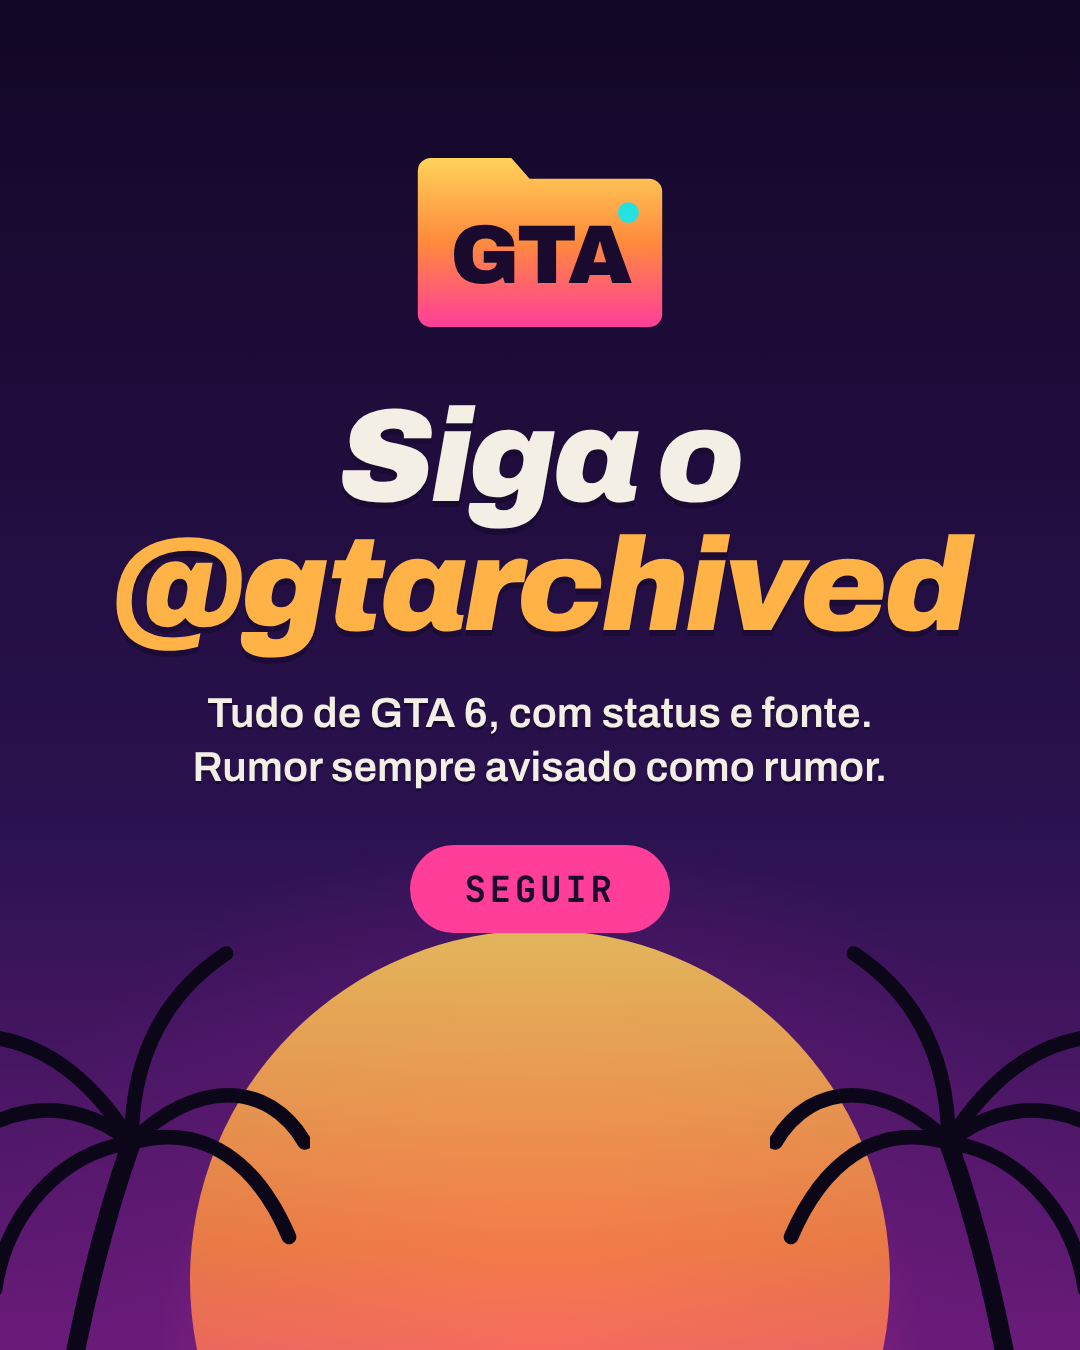
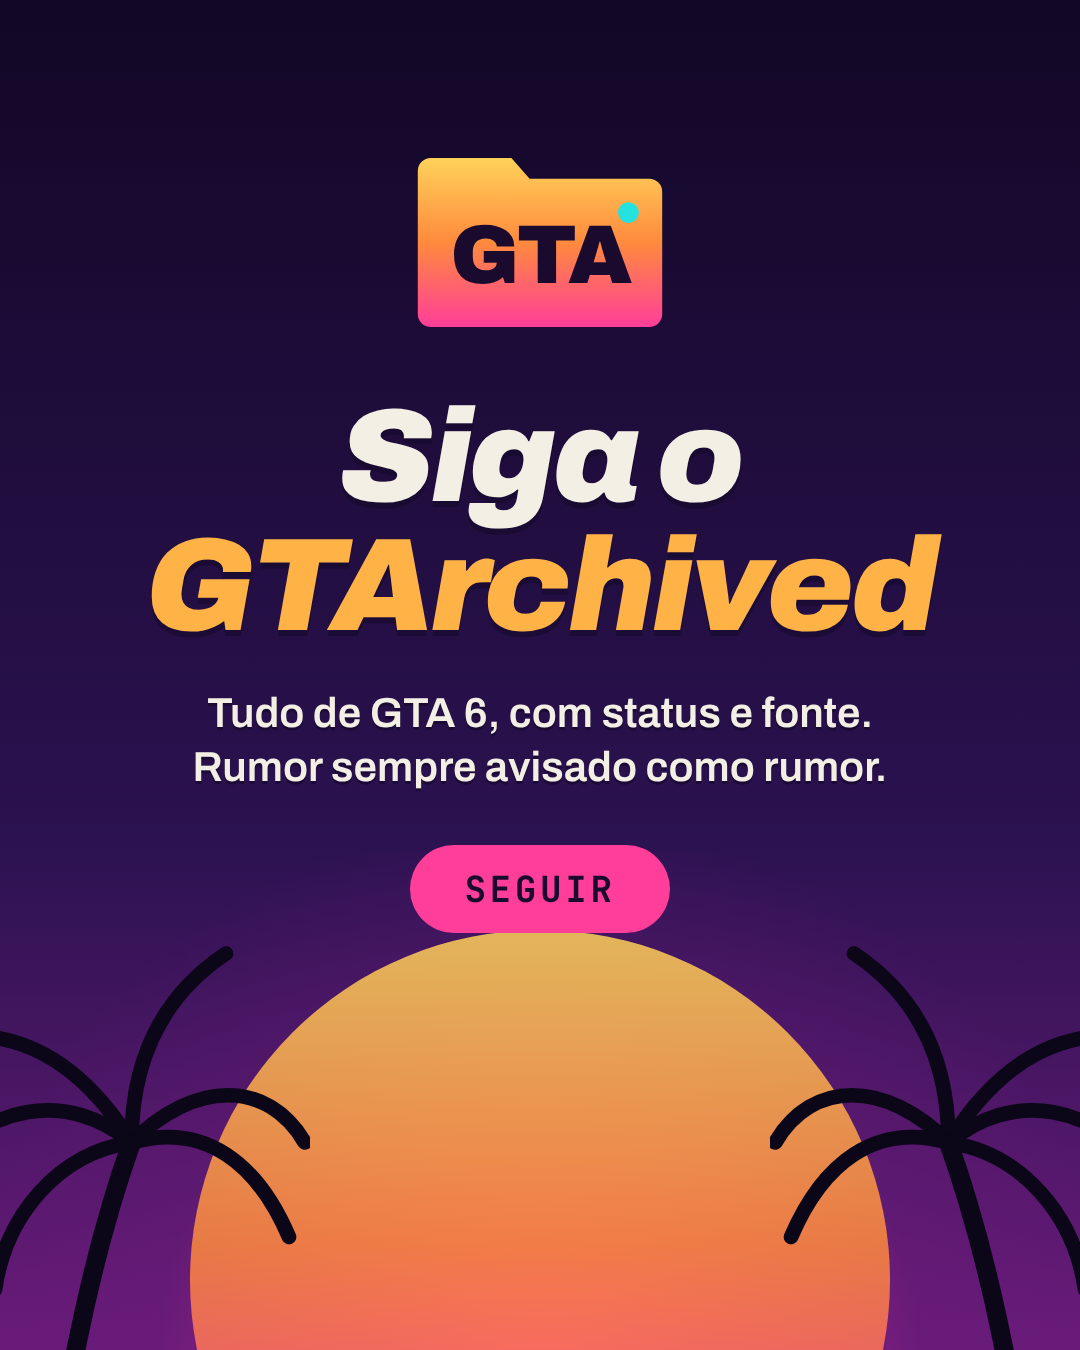
CTA sem arroba: Siga o GTArchived
Claude-Session: https://claude.ai/code/session_01ELzwkuKEoF1BTMxCfemyax

Changed region(s): [[0.0917, 0.3733, 0.9167, 0.4978]]

diff --git a/render/carrossel.js b/render/carrossel.js
@@ -61,7 +61,7 @@ function slideHtml(d, ctx, n, total) {
 ${palma(true, 880)}${palma(false, 880)}
 <div class="wrap" style="align-items:center;text-align:center">
 <div style="margin-top:60px">${FOLDER_BIG}</div>
-<div style="margin-top:50px;font-style:italic;font-weight:900;font-size:132px;line-height:.98;letter-spacing:-.03em;color:#F4EFE4;text-shadow:0 6px 0 rgba(18,7,38,.5)">Siga o <span style="color:#FFB347">@gtarchived</span></div>
+<div style="margin-top:50px;font-style:italic;font-weight:900;font-size:132px;line-height:.98;letter-spacing:-.03em;color:#F4EFE4;text-shadow:0 6px 0 rgba(18,7,38,.5)">Siga o <span style="color:#FFB347">GTArchived</span></div>
 <div style="margin-top:34px;font-weight:600;font-size:42px;line-height:1.3;color:#F4EFE4;max-width:780px;text-shadow:0 3px 0 rgba(18,7,38,.6)">Tudo de GTA 6, com status e fonte. Rumor sempre avisado como rumor.</div>
 <div style="margin-top:50px;background:#FF3E9A;color:#1A0B2E;font-size:36px;letter-spacing:.1em;padding:20px 54px;border-radius:999px" class="mono">SEGUIR</div>
 </div>`, n, total, true);

diff --git a/render/render.js b/render/render.js
@@ -106,7 +106,7 @@ ${head}
   }
   return `<!doctype html><html lang="pt-BR"><head><meta charset="utf-8">${base}</head><body>
 <div class="bg"></div><div class="glow"></div>${PALM}${SKYLINE}${body}
-<div class="handle mono">@gtarchived</div></body></html>`;
+<div class="handle mono">GTARCHIVED</div></body></html>`;
 }
 
 (async () => {
